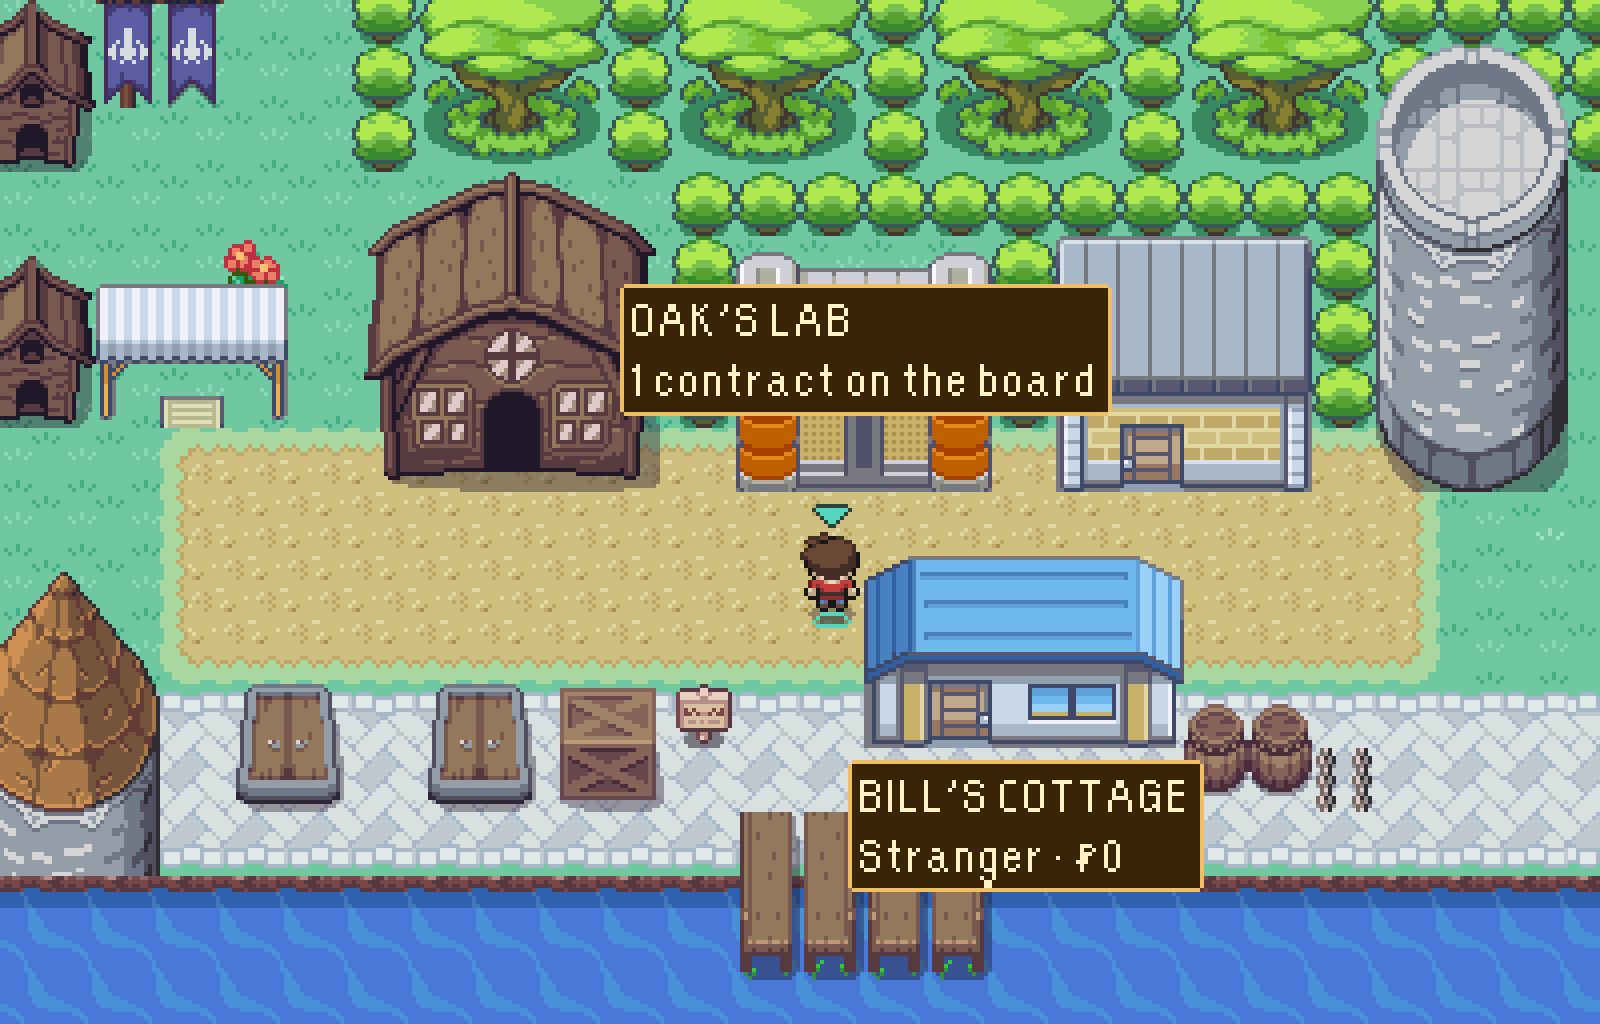
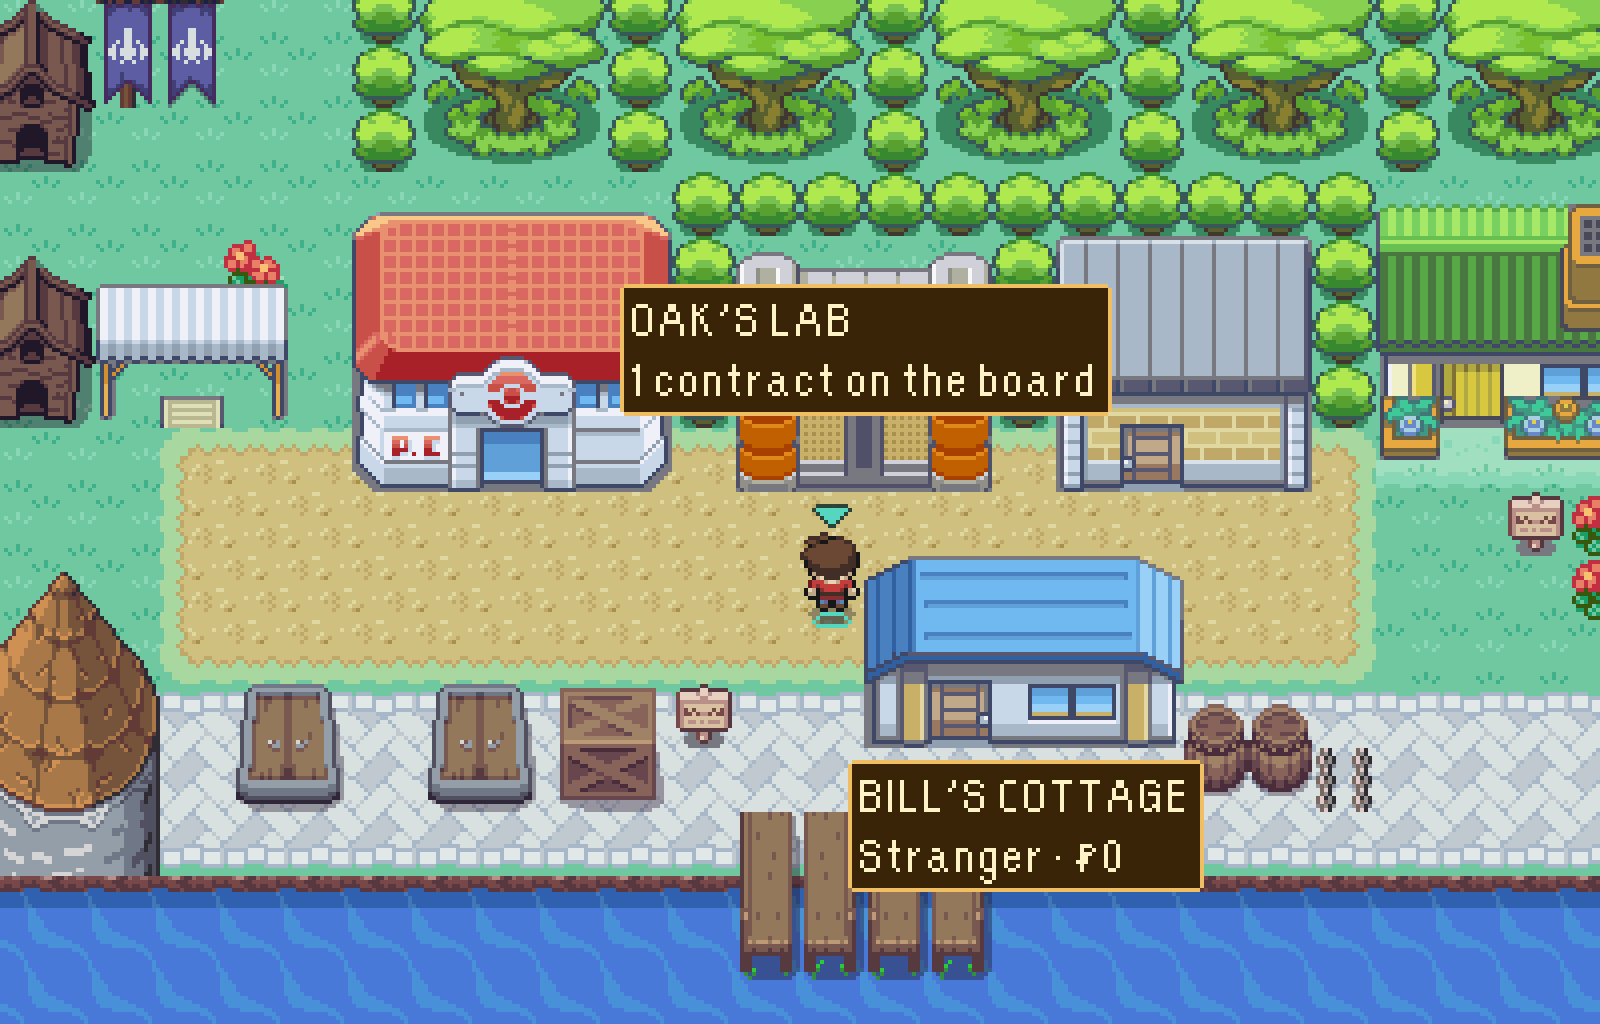
Docs: the Bolthole in the README, the Harbour picture retaken, and its screens

diff --git a/docs/screens/bolthole/README.md b/docs/screens/bolthole/README.md
@@ -1,0 +1,26 @@
+# THE BOLTHOLE
+
+The player's own house in the Harbour: FireRed's player's house, downstairs and
+up, at the end of the keepers' row behind its window boxes, with a garden and a
+sign. Nobody keeps it but you, so there is no counter and no screen behind the
+door - what it is for is what stands in it.
+
+| | |
+|---|---|
+| `harbour-before.png` / `harbour-after.png` | The whole Harbour with every one of Brock's rungs built, before and after (`tools/base/renderBase.mts -- out.png 2 --built=all`). Three columns more to the east hold the house and its garden; the mast moves beside the house; the Pokémon Center is FireRed's own building instead of the CC0 timber house. |
+| `garden.png` | Reading the sign beside the path to the step: *THE BOLTHOLE - Home. Nobody hunts you here.* The door's caption says *Your house*. |
+| `downstairs.png` | In through the door, on the mat. The sink and hob, the glass cupboard, the telly, the window, the table on its green rug, and the stairs up with the orange mat at their foot. The two columns of bare wall beside the window are kept for what comes next. |
+| `upstairs.png` | Up the stairs: arriving on the matching orange mat, facing away from the stairs. The PC on its desk, the drawers, the bookcase of toys, the calendar by the stairs, the bed, and the telly and the console on the rug. |
+
+All of the in-game ones are screenshots of a test-mode build at 3x, taken by
+`node tools/playtest/bolthole.mjs <url> <dir>`, which walks the whole house -
+sign, door, telly, stairs up, bed, PC, console, calendar, stairs down, and out
+onto the step - and fails if any of it breaks.
+
+## How it is drawn
+
+The rooms are FireRed's own interior tileset drawn the way the Game Boy Advance
+draws it, not a picture of a room: `scripts/cut-frlg-home.mjs` reads
+pret/pokefirered's `building` tileset and names every piece by the metatiles
+FireRed's own map of the player's house uses (`ASSET_PROVENANCE.md`,
+`frlg-home.png`).

diff --git a/tools/playtest/README.md b/tools/playtest/README.md
@@ -97,7 +97,12 @@ does not leave it - `docs/screens/base-rooms/` is what it photographs.
 `billCabinet.mjs <url> <dir> [--traded=N]` strikes a barter at Bill's table,
 backs out into his cottage and looks along his cabinet with the keys and the
 pointer, failing if the goods paid are not on the shelf or the look moves the
-player - `docs/screens/bill-cabinet/`.
+player - `docs/screens/bill-cabinet/`. `bolthole.mjs <url> <dir> [--built=..]`
+walks the player's own house: reads the garden sign, goes in, faces the telly,
+climbs the stairs and checks it arrived on the matching mat facing away, reads
+the bed, the PC, the console and the calendar, comes back down and leaves by the
+mat - `docs/screens/bolthole/`. The house has no keeper, so `walkIntoBase`
+never goes there; it leaves an upstairs floor by its stairs if it finds itself on one.
 
 A raid ends back on the base's quay, not on a screen, so a driver that plays
 two raids walks into Oak's Lab between them - `raid.mjs` does.

diff --git a/README.md b/README.md
@@ -146,7 +146,7 @@ following-Pokémon art. Turn round, press Space, and it'll tell you how it's doi
 Pokémon and nobody else, so lose it in a raid and the Harbour gets very quiet.
 
 <p align="center">
-  <img src="docs/readme/harbour.png" width="800" alt="The Harbour: Oak's Lab, Brock's Workshop and the radio mast above a sandy yard, Bill's cottage on the stone quay, and the sea below.">
+  <img src="docs/readme/harbour.png" width="800" alt="The Harbour: the Pokémon Center, Oak's Lab and Brock's Workshop above a sandy yard, the Bolthole's window boxes at the end of the row, Bill's cottage on the stone quay, and the sea below.">
 </p>
 
 <p align="center">
